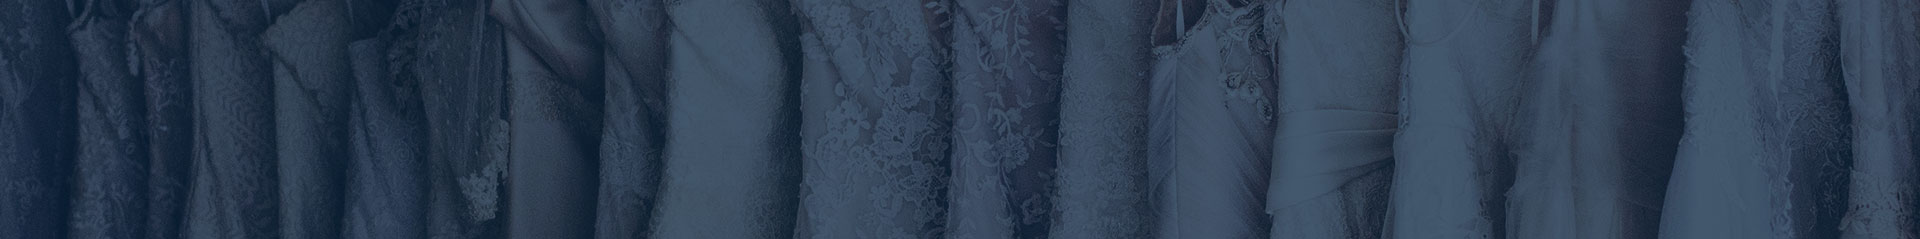
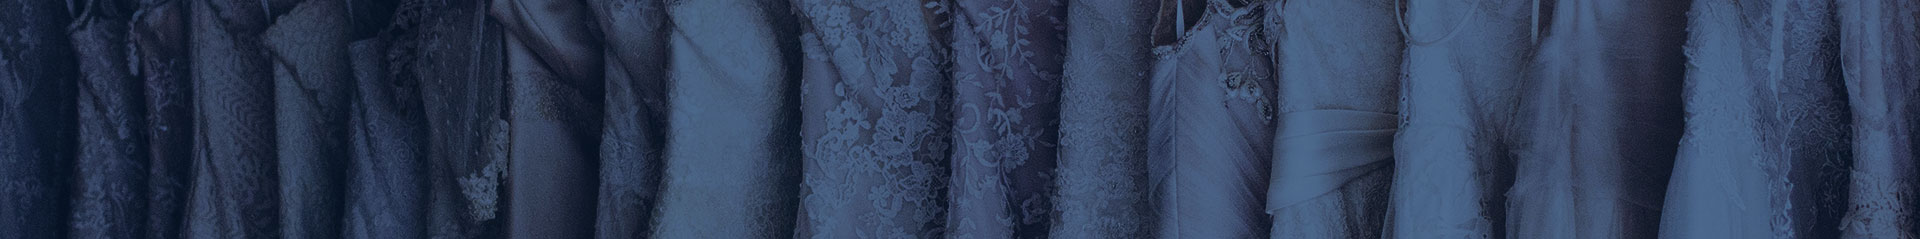
add main images for all pages

diff --git a/product.html b/product.html
@@ -160,9 +160,9 @@
 					<div class="size-200 bor10 flex-w flex-col-m p-t-20 p-b-20 w-full-md">
 						<div class="">
 
-							<h4 class="mtext-105 cl2 txt-center ">
-								<img src="images/icons/icon.jpg" class="temp">
-								Sua Marca aqui
+							<h4 class="ltext-102 cl2 txt-center ">
+								<img src="images/icons/lemozel.jpg">
+								
 							</h4>
 
 						</div>
@@ -187,7 +187,7 @@
 								<img src="images/product-13.jpg" alt="IMG-PRODUCT">
 
 								<a href="#"
-									class="block2-btn flex-c-m stext-103 cl2 size-102 bg0 bor2 hov-btn1 p-lr-15 trans-04 js-show-modal1">
+									class="block2-btn flex-c-m stext-103 cl2 size-102 bg0 bor2 hov-btn1 p-lr-15 trans-04 js-show-modal2">
 									Quick View
 								</a>
 							</div>
@@ -351,9 +351,9 @@
 					<div class="size-200 bor10 flex-w flex-col-m p-t-20 p-b-20 w-full-md">
 						<div class="">
 
-							<h4 class="mtext-105 cl2 txt-center ">
-								<img src="images/icons/icon.jpg" class="temp">
-								Sua Marca aqui
+							<h4 class="ltext-102 cl2 txt-center ">
+								<img src="images/icons/mutxado.jpg">
+								
 							</h4>
 
 						</div>
@@ -519,7 +519,7 @@
 						<div class="block2">
 							<div class="flex-c-m flex-w w-full p-t-45">
 								<a href="#"
-									class="flex-c-m stext-101 cl5 size-103 bg2 bor1 hov-btn1 p-lr-15 trans-04 js-show-modal1">
+									class="flex-c-m stext-101 cl5 size-103 bg2 bor1 hov-btn1 p-lr-15 trans-04 js-show-modal2">
 									Informacoes
 								</a>
 							</div>
@@ -729,28 +729,6 @@
 											</a>
 										</div>
 									</div>
-
-									<div class="item-slick3" data-thumb="images/product-detail-02.jpg">
-										<div class="wrap-pic-w pos-relative">
-											<img src="images/product-detail-02.jpg" alt="IMG-PRODUCT">
-
-											<a class="flex-c-m size-108 how-pos1 bor0 fs-16 cl10 bg0 hov-btn3 trans-04"
-												href="images/product-detail-02.jpg">
-												<i class="fa fa-expand"></i>
-											</a>
-										</div>
-									</div>
-
-									<div class="item-slick3" data-thumb="images/product-detail-03.jpg">
-										<div class="wrap-pic-w pos-relative">
-											<img src="images/product-detail-03.jpg" alt="IMG-PRODUCT">
-
-											<a class="flex-c-m size-108 how-pos1 bor0 fs-16 cl10 bg0 hov-btn3 trans-04"
-												href="images/product-detail-03.jpg">
-												<i class="fa fa-expand"></i>
-											</a>
-										</div>
-									</div>
 								</div>
 							</div>
 						</div>
@@ -779,13 +757,23 @@
 							<span class="mtext-105 cl2 m-t-10">
 								Contactos
 							</span>
-							<p>
-									<span class="cl3 m-r-16 fa fa-whatsapp"></span> <span
-									class="stext-116 cl3">+258 82 172 1024 </span><br>
-									<span class="cl3 m-r-16 fa fa-facebook"></span> <span
-									class="stext-104 cl3"><a href="fb.com" class= "cl 13 hov-cl1 trans-04">Le Mozel Vestidos</a></span><br>
-									<span class="cl3 m-r-16 fa fa-instagram"></span> <span
-									class="stext-104 cl3"><a href="fb.com" class= "cl 13 hov-cl1 trans-04">@Le_Mozel_Vestidos</a></span><br>
+							<p class="stext-103">
+								<div class="stext-103 m-t-5 container">
+										<span class="cl3 m-r-16 fa fas fa-whatsapp"></span>
+										 <span class="cl3">+258 82 172 1024 </span>
+								</div>
+
+								<div class="stext-103 m-t-5 container">
+										<span class="cl3 m-r-16 fa fas fa-facebook"></span>
+										 <span class="cl3"><a href="fb.com" class= "link">&nbsp;Le Mozel Vestidos</a></span>
+								</div>
+								
+								<div class="stext-103 m-t-5 container">
+										<span class="cl3 m-r-16 fa fas fa-instagram"></span>
+										 <span class="cl3"><a href="fb.com" class= "link">@Le_Mozel_Vestidos</a></span>
+								</div>
+							
+									
 							</p>
 							
 						</div>
@@ -793,6 +781,87 @@
 				</div>
 			</div>
 		</div>
+	</div>
+
+	<!-- Modal2 -->
+	<div class="wrap-modal js-modal2 p-t-60 p-b-20">
+		<div class="overlay-modal2 js-hide-modal2"></div>
+
+		<div class="container">
+			<div class="bg0 p-t-60 p-b-30 p-lr-15-lg how-pos3-parent">
+				<button class="how-pos3 hov3 trans-04 js-hide-modal2">
+					<img src="images/icons/icon-close.png" alt="CLOSE">
+				</button>
+
+				<div class="row">
+					<div class="col-md-6 col-lg-7 p-b-30">
+						<div class="p-l-25 p-r-30 p-lr-0-lg">
+							<div class="wrap-slick3 flex-sb flex-w">
+								<div class="slick3 gallery-lb">
+									<div class="item-slick3" data-thumb="images/product-detail-01.jpg">
+										<div class="wrap-pic-w pos-relative m-l-50">
+											<img src="images/mutxado.jpg" alt="IMG-BRAND">
+
+											<a class="flex-c-m size-108 how-pos1 bor0 fs-16 cl10 bg0 hov-btn3 trans-04"
+												href="images/mutxado.jpg">
+												<i class="fa fa-expand"></i>
+											</a>
+										</div>
+									</div>
+								</div>
+							</div>
+						</div>
+					</div>
+
+					<div class="col-md-6 col-lg-5 p-b-30">
+						<div class="p-r-50 p-t-5 p-lr-0-lg">
+							<h4 class="mtext-111 cl2 js-name-detail p-b-14">
+								Mutxado Servicos
+							</h4>
+
+							<p class="stext-102 cl3 p-b-14">
+								Descrição do forneçdor
+								Nulla eget sem vitae eros pharetra viverra.
+								Nam vitae luctus ligula. Mauris consequat ornare feugiat.
+							</p>
+
+							<span class="mtext-105 cl2">
+								Localização
+							</span>
+
+							<p class="stext-102 cl3 p-b-14">
+								Prédio Lorenço Caetano, 8 andar
+								, Rua Alberto Cassino, Cidade de Maputo, CP 10018.
+							</p>
+							<span class="mtext-105 cl2 m-t-10">
+								Contactos
+							</span>
+							<p class="stext-103">
+								<div class="stext-103 m-t-5 container">
+										<span class="cl3 m-r-16 fa fas fa-whatsapp"></span>
+										 <span class="cl3">+258 82 172 1024 </span>
+								</div>
+
+								<div class="stext-103 m-t-5 container">
+										<span class="cl3 m-r-16 fa fas fa-facebook"></span>
+										 <span class="cl3"><a href="fb.com" class= "link">&nbsp;Moz casamentos</a></span>
+								</div>
+								
+								<div class="stext-103 m-t-5 container">
+										<span class="cl3 m-r-16 fa fas fa-instagram"></span>
+										 <span class="cl3"><a href="fb.com" class= "link">@mozcasmentos</a></span>
+								</div>
+							
+									
+							</p>
+							
+						</div>
+					</div>
+				</div>
+			</div>
+		</div>
+	</div>
+
 	</div>
 
 	<!--===============================================================================================-->

diff --git a/about.html b/about.html
@@ -141,7 +141,7 @@
 	</header>
 
 	<!-- Title page -->
-	<section class="bg-img1 txt-center p-lr-15 p-tb-92" style="background-image: url('images/bg-01.jpg');">
+	<section class="bg-img1 txt-center p-lr-15 p-tb-92" style="background-image: url('images/bg-02.jpg');">
 		<h2 class="ltext-105 cl0 txt-center">
 			About
 		</h2>
@@ -155,7 +155,7 @@
 				<div class="col-md-7 col-lg-8">
 					<div class="p-t-7 p-r-85 p-r-15-lg p-r-0-md">
 						<h3 class="mtext-111 cl2 p-b-16">
-							Our Story
+							Nossa Historia
 						</h3>
 
 						<p class="stext-113 cl6 p-b-26">
@@ -178,11 +178,6 @@
 							elit, vel tincidunt erat arcu ut sem. Sed rutrum, turpis ut commodo efficitur, quam velit
 							convallis ipsum, et maximus enim ligula ac ligula.
 						</p>
-
-						<p class="stext-113 cl6 p-b-26">
-							Any questions? Let us know in store at 8th floor, 379 Hudson St, New York, NY 10018 or call
-							us on (+1) 96 716 6879
-						</p>
 					</div>
 				</div>
 
@@ -199,7 +194,7 @@
 				<div class="order-md-2 col-md-7 col-lg-8 p-b-30">
 					<div class="p-t-7 p-l-85 p-l-15-lg p-l-0-md">
 						<h3 class="mtext-111 cl2 p-b-16">
-							Our Mission
+							Nossa Missao
 						</h3>
 
 						<p class="stext-113 cl6 p-b-26">

diff --git a/css/main.css b/css/main.css
@@ -2345,6 +2345,7 @@ input.num-product::-webkit-inner-spin-button {
   line-height: 1.2857;
 }
 
+
 .ltext-102 {
   font-family: Poppins-Bold;
   font-size: 28px;
@@ -3350,8 +3351,16 @@ vendor{
     border: 4px solid #E67E22;
     margin-bottom: 13px;
 }
-.temp {
-    border-radius: 50%;
-    margin-right: 20px;
-    height: 40px;
+.fas{
+  font-size: 18px;
+  display: inline-block;
+}
+.link{
+  color: #E67E22;
+  display: inline-block;
+  font-family: 'Poppins-Regular';
+  font-size: 16px;;
+}
+.link:active,.link:hover{
+  color: #c9650e;
 }

diff --git a/contact.html b/contact.html
@@ -142,9 +142,9 @@
 
 
 	<!-- Title page -->
-	<section class="bg-img1 txt-center p-lr-15 p-tb-92" style="background-image: url('images/bg-01.jpg');">
+	<section class="bg-img1 txt-center p-lr-15 p-tb-92" style="background-image: url('images/bg-05.jpg');">
 		<h2 class="ltext-105 cl0 txt-center">
-			my name
+			Contacte-nos
 		</h2>
 	</section>	
 
